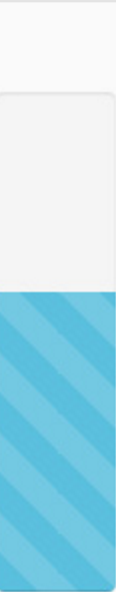
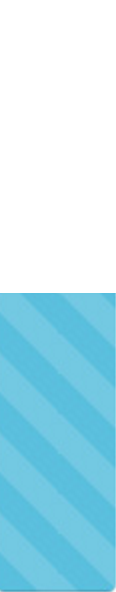
Fix the challenge page spacing and alignment

Changed region(s): [[0.0, 0.4865, 1.0, 0.5169], [0.0, 0.0, 1.0, 0.0304]]

diff --git a/challenges.html b/challenges.html
@@ -29,15 +29,20 @@
                 <h3>Non-Profit: SIMUL</h3>
                 <h4>Philanthropist: Pepsi</h4>
                 <h5 class="challenge-font">Challenge: 100,000 giver points means we can provide shelter to 100 displaced Syrian refugees...</h5>
+            <div class="progress-bar">
                 <img class="progress" src="vertical-progressbar.jpg">
+            </div>
             </div>
 
             <div class="event" id="mental-pic">
                 <h2>Mental Illness</h2>
                 <h3>Non-Profit: Sway</h3>
                 <h4>Philanthropist: Virgin America</h4>
-                <h5 class="challenge-font">Challenge: 5,000 giver points means we can help 10 people attend a professional counseling session with Ilya or Sefora...</h5>
+                <h5 class="challenge-font">Challenge: 5,000 giver points means we can help 10 people attend a professional counseling session with Ilya or Sefora...
+                </h5>
+            <div class="progress-bar">
                 <img class="progress" src="vertical-progressbar2.png">
+            </div>
             </div>
 
             <div class="event" id="water-pic">
@@ -45,8 +50,10 @@
                 <h3>Non-Profit: We Are Water</h3>
                 <h4>Philanthropist: Mark Zuckerberg</h4>
                 <h5 class="challenge-font">Challenge: 10,000 giver points means we can build a well in Bangalore to help alleviate the water shortage...</h5>
-                <h5>Link: http://www.bbc.com/news/world-asia-india-37346570</h5>
+                <!-- <h5>Link: http://www.bbc.com/news/world-asia-india-37346570</h5> -->
+            <div class="progress-bar">
                 <img class="progress" src="vertical-progressbar3.png">
+            </div>
             </div>
         </div>
 

diff --git a/challenges.css b/challenges.css
@@ -1,3 +1,7 @@
+.challenge-background {
+  background-color: #D3D3D3;
+  width: 92%;
+}
 body {
   background-color: #D3D3D3;
   font-family: "Montserrat", "Helvetica Neue", Helvetica, Arial, sans-serif;
@@ -8,29 +12,16 @@ body {
   text-align: center;
 }
 
-.challenge-background {
-  background-color: #FFFFFF;
-}
 .challenge-font {
   width: 90%;
-  margin: -2%;
-}
-
-.event {
-  padding-left: 5%;
-  border-style: groove;
-  border-color: #FFFFFF;
-  color: #FFFFFF;
-  width: 400px;
-  height: 215px;
-  padding-bottom: 3%;
 }
 
 .progress {
   position: absolute;
+  display:inline;
   width: 5%;
   height: 25%;
-  margin: -47% 0% 10% 83%;
+  margin: -50% -30% 0% 83%;
   opacity: 100%;
 }
 
@@ -45,4 +36,13 @@ body {
 
 #mental-pic {
   background-image: url("woman-mental.jpg");
+}
+.event {
+  border-style: groove;
+  border-color: #FFFFFF;
+  color: #FFFFFF;
+  height: 215px;
+  width: 100%;
+  padding: 3%;
+  margin-bottom: 1%;
 }
